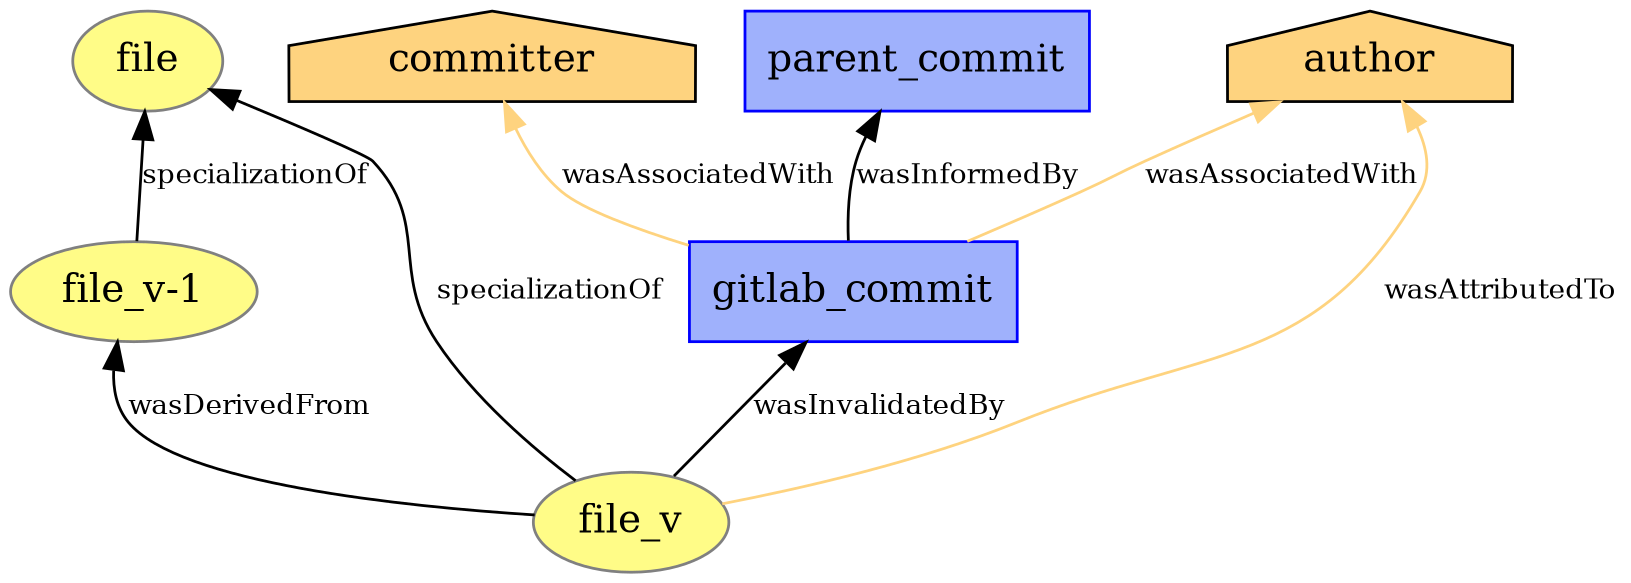
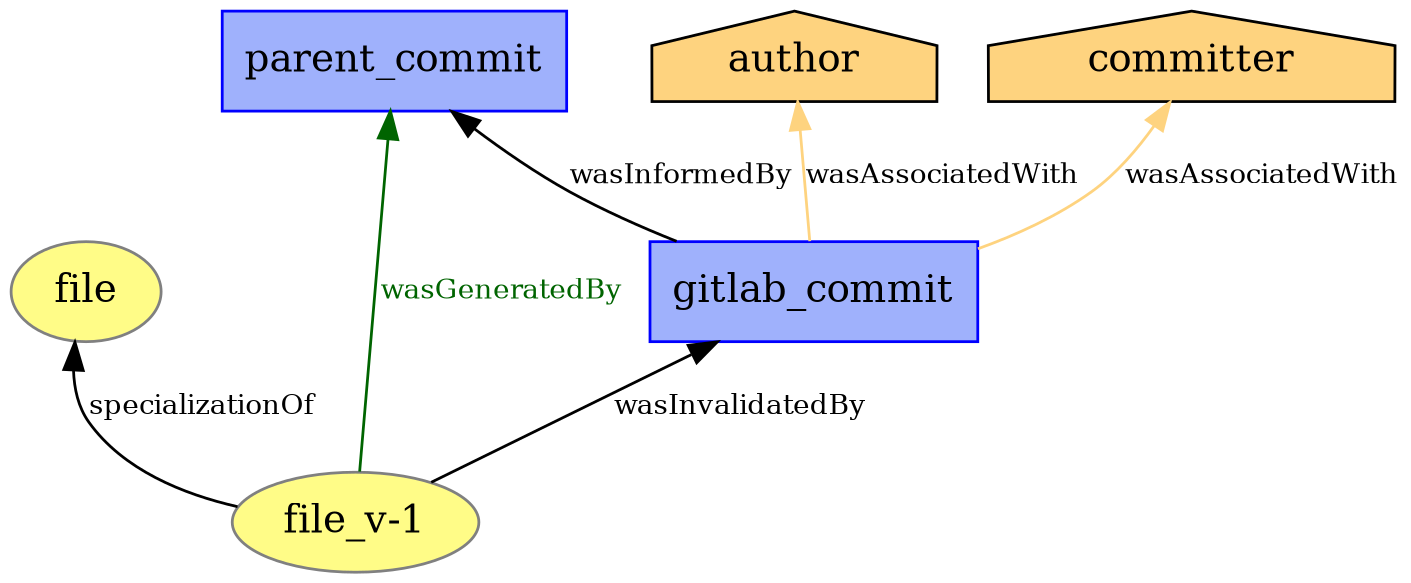
Change model for file deletion to reflect which version got deleted.

diff --git a/models/commit_model_delete_file.py b/models/commit_model_delete_file.py
@@ -7,20 +7,17 @@ document.set_default_namespace("gl2p:")
 # Nodes
 document.entity("file")
 document.entity("file_v-1")
-document.entity("file_v")
 document.activity("parent_commit")
 document.activity("gitlab_commit")
 document.agent("author")
 document.agent("committer")
 
 # Relations
-document.wasInvalidatedBy("file_v", "gitlab_commit")
+document.wasInvalidatedBy("file_v-1", "gitlab_commit")
+document.wasGeneratedBy("file_v-1", "parent_commit")
 document.wasInformedBy("gitlab_commit", "parent_commit")
-document.specializationOf("file_v", "file")
 document.specializationOf("file_v-1", "file")
-document.wasDerivedFrom("file_v", "file_v-1")
 document.wasAssociatedWith("gitlab_commit", "author")
 document.wasAssociatedWith("gitlab_commit", "committer")
-document.wasAttributedTo("file_v", "author")
 
 COMMIT_MODEL_DELETE_FILE = document

diff --git a/models/README.md b/models/README.md
@@ -11,6 +11,8 @@ A commit modifying an existing file.
 
 #### Commit Model - Delete File
 A commit deleting an existing file.  
+The commit only marks an existing file version entity as Invalidated.
+It does not add an own file version entity.
 ![Commit deleting a file](./pngs/commit_model_delete_file.png)
 
 #### Commit Model - New Commit
